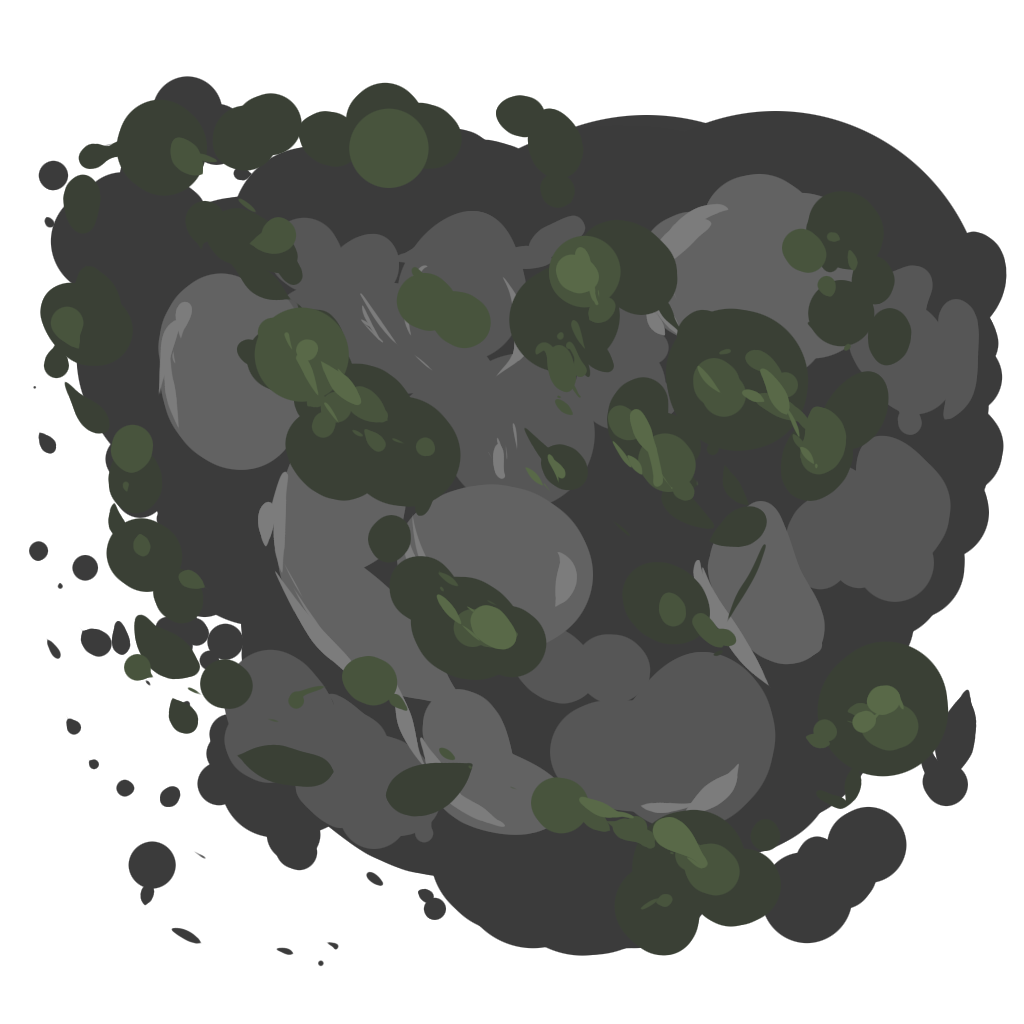
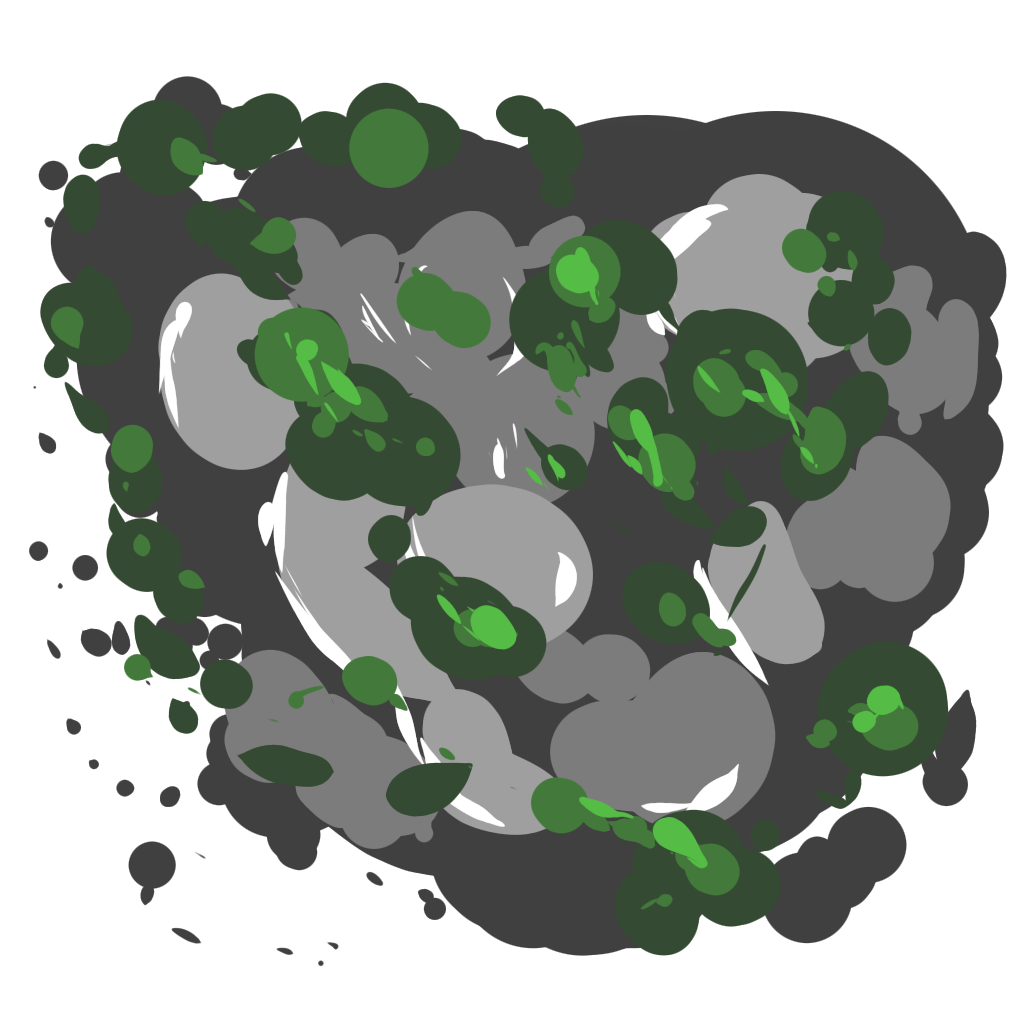
random map and textures

diff --git a/src/MVC/Model.java b/src/MVC/Model.java
@@ -4,12 +4,18 @@ import CellClasses.*;
 import CharacterClasses.*;
 
 import javax.imageio.ImageIO;
+import java.awt.*;
 import java.awt.image.BufferedImage;
 import java.io.File;
 import java.io.IOException;
 import java.util.ArrayList;
+import java.util.Random;
 
 public class Model {
+    ArrayList<Point> gridCoords;
+    static ArrayList<Point> ressourcesCoords;
+    ArrayList<Point> obstacleCoords;
+
     public static int cellSize = 100;
     public Grid grid;
     public Fiona fiona;
@@ -25,7 +31,39 @@ public class Model {
     public ArrayList<CellContent> items = new ArrayList<>();
     public Model(int height, int width) {
         grid = new Grid(height, width);
+        ressourcesCoords = new ArrayList<>();
+        for (int i = 1; i < width; i++){
+            switch (i){
+                case 1, 8 -> {
+                    for (int j = 3; j < 8; j++){
+                        ressourcesCoords.add(new Point(j,i));
+                    }
+                }
+                case 2-> {
+                    for (int j = 3; j < 9; j++){
+                        ressourcesCoords.add(new Point(j,i));
+                    }
+                }
+                case 3, 7 -> {
+                    for (int j = 2; j < 9; j++){
+                        ressourcesCoords.add(new Point(j,i));
+                    }
+                }
+                case 4, 6-> {
+                    for (int j = 2; j < 10; j++){
+                        if (j != 5 && j != 6)
+                            ressourcesCoords.add(new Point(j,i));
+                    }
+                }
+                case 5 -> {
+                    for (int j = 1; j < 10; j++){
+                        if (j != 4 && j != 5 && j != 6)
+                            ressourcesCoords.add(new Point(j,i));
+                    }
+                }
+            }
 
+        }
         Cell c = grid.cells.get(height/2).get(width/2);
         c.isSelected = true;
         grid.selectedCell = c;
@@ -33,13 +71,26 @@ public class Model {
         addSpecialChar("CharacterClasses.Fiona");
         addSpecialChar("CharacterClasses.Donkey");
         addSpecialChar("CharacterClasses.Dragon");
-        addObstacle("Dessins/Stem1.png",height/2, width/2-1);
-        addObstacle("Assets/Buche.png",height/2+2, width/2+1);
-        addObstacle("Assets/Buche.png",height/2-2, width/2+1);
-        addObstacle("Assets/Tree.png",height/2-3, width/2+1);
-        addRessource("Dessins/Boulder1.png",height/2, width/2+3, RessourceType.iron, 10);
-        addObstacle("Assets/Tree.png",height/2-2, width/2+3);
-        addObstacle("Assets/Rock.png",height/2+4, width/2+1);
+
+        Point p = createRessourceCoord();
+        addRessource("Dessins/Boulder1.png",p.x, p.y, RessourceType.iron, 10);
+        p = createRessourceCoord();
+        addRessource("Assets/flowers.png",p.x, p.y, RessourceType.flower, 10);
+        p = createRessourceCoord();
+        addRessource("Assets/poudre.png",p.x, p.y, RessourceType.powder, 10);
+
+        p = createRessourceCoord();
+        addObstacle("Dessins/Stem1.png",p.x, p.y);
+        p = createRessourceCoord();
+        addObstacle("Dessins/Stem1.png",p.x, p.y);
+        p = createRessourceCoord();
+        addObstacle("Dessins/Stem1.png",p.x, p.y);
+        p = createRessourceCoord();
+        addObstacle("Dessins/Stem1.png",p.x, p.y);
+        p = createRessourceCoord();
+        addObstacle("Dessins/Stem1.png",p.x, p.y);
+        p = createRessourceCoord();
+        addObstacle("Dessins/Stem1.png",p.x, p.y);
 
 
     }
@@ -114,6 +165,13 @@ public class Model {
             }
         }
 
+    }
+
+    private Point createRessourceCoord(){
+        int selected = (int)(Math.random() * ressourcesCoords.toArray().length);
+        Point p = ressourcesCoords.get(selected);
+        ressourcesCoords.remove(selected);
+        return p;
     }
 
     private void addObstacle(String file, int posX, int posY) {

diff --git a/src/MVC/Views/GameView.java b/src/MVC/Views/GameView.java
@@ -74,6 +74,8 @@ public class GameView extends JPanel {
         } else {
             g.drawImage(image, (hexagon.posX - 1) * Model.cellSize-hexagon.posX *12+hexagon.posX *shift + Model.cellSize / 2-(6-shift/2), (3 * Model.cellSize / 4) * (hexagon.posY - 1)+hexagon.posY *shift/2, this);
         }
+        g.fillRect(hexagon.posCenterX, hexagon.posCenterY, 2, 2);
+        g.drawString(hexagon.posX + "," + hexagon.posY, hexagon.posCenterX-2, hexagon.posCenterY-2);
     }
 
     /** Method drawGrid
